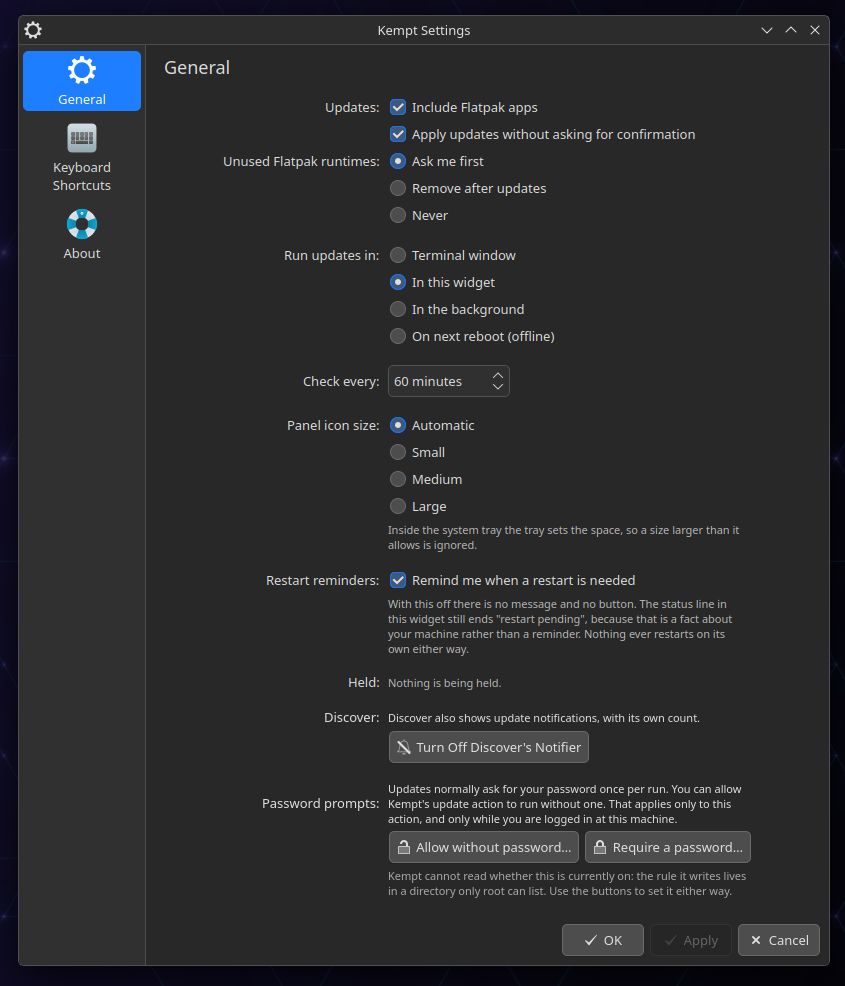
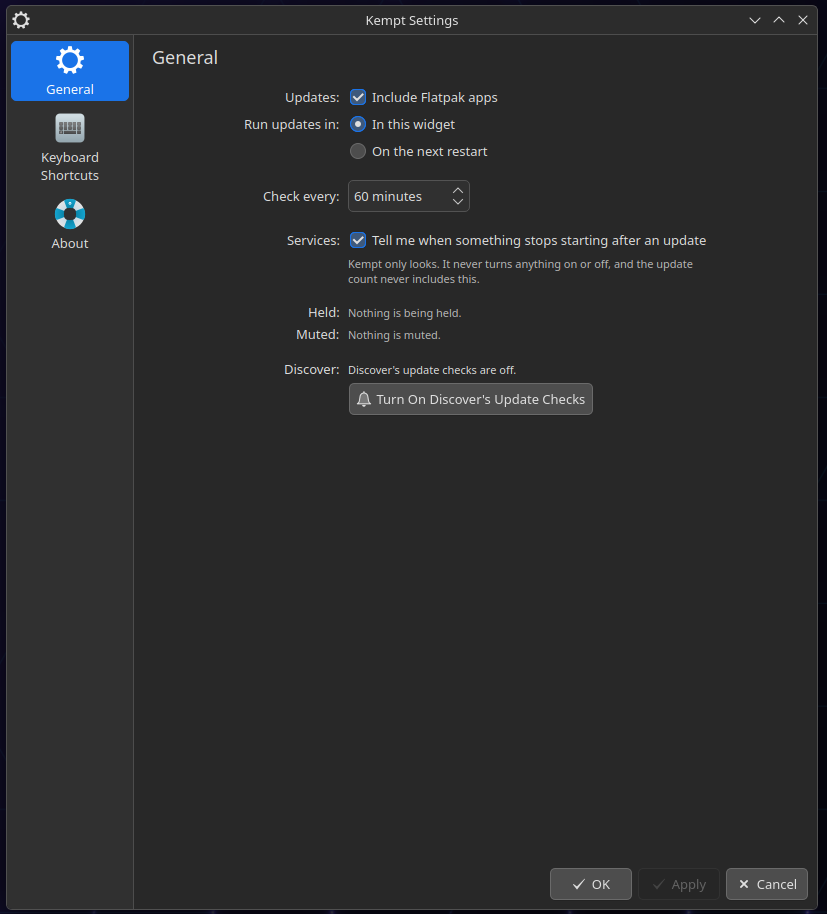
docs: 0.3.0 screenshots of the widget and its settings

Changed region(s): [[0.0, 0.0, 0.9976, 1.0]]

diff --git a/README.md b/README.md
@@ -8,7 +8,7 @@ distributions come later.
 [![KDE Store](https://img.shields.io/badge/KDE%20Store-Kempt-54a3d8)](https://store.kde.org/p/2370353/)
 [![License: MIT](https://img.shields.io/badge/License-MIT-yellow.svg)](LICENSE)
 
-![Kempt in the system tray, with the widget open on the pending updates, grouped under System and Apps](docs/images/kempt-tray-popup.png)
+![Kempt in the system tray, with the widget open on 30 updates listed under System, each with its version change and a lock to hold it, and an Update Now button](docs/images/kempt-widget.png)
 
 *The widget lists each update with its old and new version. The padlock on each row holds a
 package back, and the footer shows the download size.*
@@ -79,11 +79,7 @@ so. For servers and unattended machines, Fedora's `dnf5-automatic` is the better
 - **A self-check.** `kempt doctor` checks the install one line at a time.
 - **One count.** Kempt can turn off Discover's update checks, so you see one number.
 
-![The widget with updates ready for the next restart, with buttons to restart now or discard the updates](docs/images/kempt-staged.png)
-
-*Updates ready for the next restart. Restart when you are ready, or discard them and keep working.*
-
-![Kempt's settings page: Flatpak apps, where updates run, check interval, services, holds, muted services and Discover](docs/images/kempt-settings.png)
+![Kempt's settings page: include Flatpak apps, run updates in this widget or on the next restart, check every 60 minutes, tell me when a service stops starting, held and muted lists, and a button to turn Discover's update checks back on](docs/images/kempt-settings.png)
 
 *The settings page edits the same config file the command line reads.
 [docs/configuration.md](docs/configuration.md) lists every setting.*

diff --git a/docs/configuration.md b/docs/configuration.md
@@ -1,6 +1,6 @@
 # Configuring Kempt
 
-![The widget's settings page: Flatpak apps, where updates run, check interval, services, holds, muted services and Discover](images/kempt-settings.png)
+![The widget's settings page: include Flatpak apps, run updates in this widget or on the next restart, check every 60 minutes, tell me when a service stops starting, held and muted lists, and a button to turn Discover's update checks back on](images/kempt-settings.png)
 
 *Most controls on the widget's settings page set one of the keys below. **Held**, **Muted** and
 **Discover** run commands instead. A change made in either place shows up in the other.*
